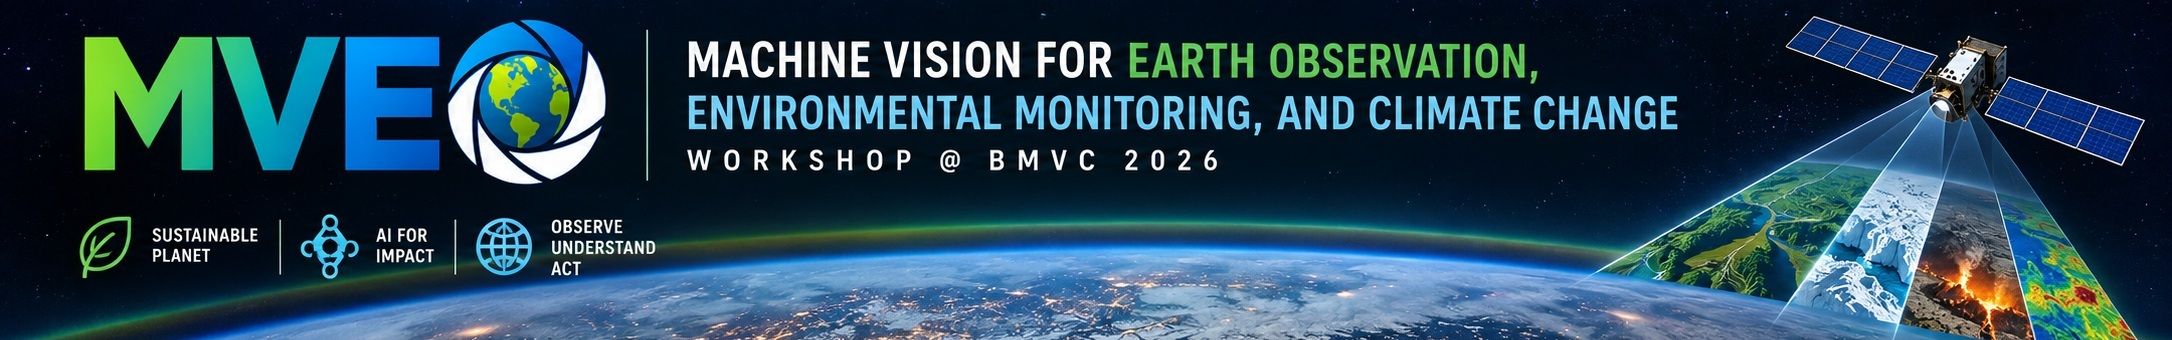
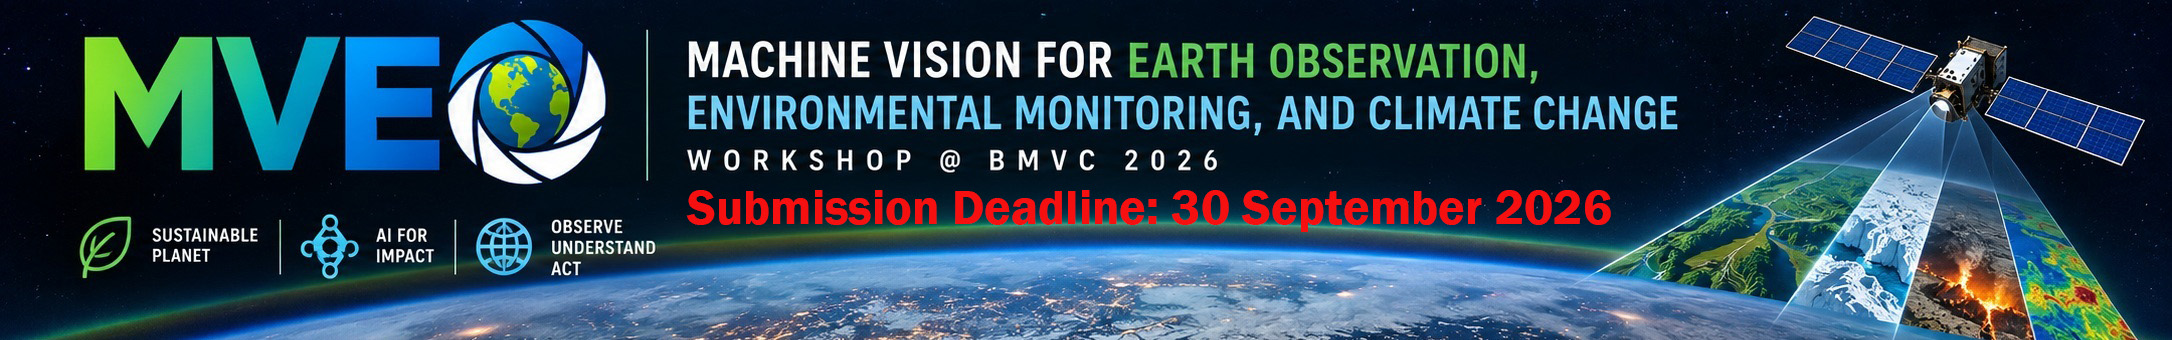
deadline update
deadline update to 30 sep

Changed region(s): [[0.3085, 0.5588, 0.7403, 0.6765], [0.2159, 0.1765, 0.2468, 0.2353]]

diff --git a/submission.html b/submission.html
@@ -327,7 +327,7 @@
                     <div class="submission-badges">
                         <span class="submission-badge">BMVC 2026 Workshop</span>
                         <span class="submission-badge">Call for Papers</span>
-                        <span class="submission-badge deadline">Deadline: 21 Sep 2026</span>
+                        <span class="submission-badge deadline">Deadline: 30 Sep 2026</span>
                     </div>
 
                     <h1 id="submission-title" class="submission-title">Submit your paper to MVEO 2026</h1>
@@ -336,7 +336,7 @@
                     </p>
 
                     <div class="submission-facts">
-                        <div class="submission-fact"><i class="far fa-calendar-alt" aria-hidden="true"></i><span>21 September 2026 · 23:59 GMT</span></div>
+                        <div class="submission-fact"><i class="far fa-calendar-alt" aria-hidden="true"></i><span>30 September 2026 · 23:59 GMT</span></div>
                         <div class="submission-fact"><i class="fas fa-map-marker-alt" aria-hidden="true"></i><span>Lancaster, United Kingdom</span></div>
                         <div class="submission-fact"><i class="fas fa-book-open" aria-hidden="true"></i><span>BMVC Workshop Proceedings</span></div>
                     </div>

diff --git a/index.html b/index.html
@@ -372,7 +372,7 @@
 					<a class="submit-now-btn" href="https://mveo.github.io/submission.html">
 						SUBMIT NOW <i class="fas fa-arrow-right" aria-hidden="true"></i>
 					</a>
-					<small>Paper submission deadline: 21 September 2026</small>
+					<small>Paper submission deadline: 30 September 2026</small>
 				</div>
 
 			</div>
